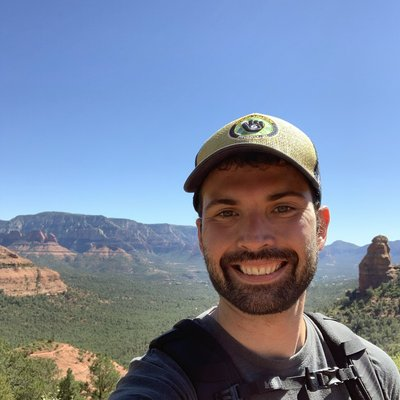
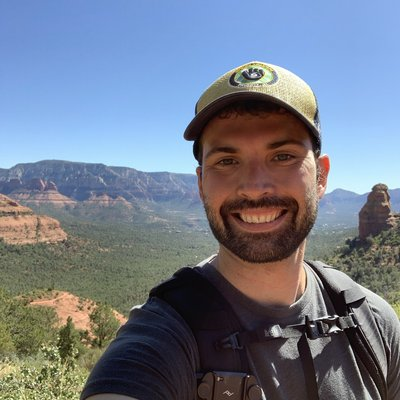
Add authors and B&N links to books page, improve profile photo crop
- Add author names and Barnes & Noble links for all recommended books
- Re-crop profile photo with face better centered

diff --git a/app/books/page.tsx b/app/books/page.tsx
@@ -1,4 +1,5 @@
 import type { Metadata } from 'next'
+import Link from 'next/link'
 
 export const metadata: Metadata = {
   title: 'Recommended Books',
@@ -10,28 +11,76 @@ const bookCategories = [
   {
     title: 'Leadership',
     books: [
-      'Extreme Ownership',
-      'The Obstacle is the Way',
-      'Stillness Is the Key',
-      'Ego is the Enemy',
-      'Multipliers',
-      'Turn the Ship Around',
+      {
+        title: 'Extreme Ownership',
+        author: 'Jocko Willink & Leif Babin',
+        url: 'https://www.barnesandnoble.com/w/extreme-ownership-jocko-willink/1121081209',
+      },
+      {
+        title: 'The Obstacle Is the Way',
+        author: 'Ryan Holiday',
+        url: 'https://www.barnesandnoble.com/w/the-obstacle-is-the-way-ryan-holiday/1118482432',
+      },
+      {
+        title: 'Stillness Is the Key',
+        author: 'Ryan Holiday',
+        url: 'https://www.barnesandnoble.com/w/stillness-is-the-key-ryan-holiday/1130068915',
+      },
+      {
+        title: 'Ego Is the Enemy',
+        author: 'Ryan Holiday',
+        url: 'https://www.barnesandnoble.com/w/ego-is-the-enemy-ryan-holiday/1122680805',
+      },
+      {
+        title: 'Multipliers',
+        author: 'Liz Wiseman',
+        url: 'https://www.barnesandnoble.com/w/multipliers-revised-and-updated-liz-wiseman/1124435198',
+      },
+      {
+        title: 'Turn the Ship Around!',
+        author: 'L. David Marquet',
+        url: 'https://www.barnesandnoble.com/w/turn-the-ship-around-l-david-marquet/1115459209',
+      },
     ],
   },
   {
     title: 'Software Engineering',
     books: [
-      'Code Complete',
-      'Release It!',
-      'Microservices Patterns: With examples in Java',
+      {
+        title: 'Code Complete',
+        author: 'Steve McConnell',
+        url: 'https://www.barnesandnoble.com/w/code-complete-steve-mcconnell/1100354307',
+      },
+      {
+        title: 'Release It!',
+        author: 'Michael T. Nygard',
+        url: 'https://www.barnesandnoble.com/w/release-it-michael-t-nygard/1111870490',
+      },
+      {
+        title: 'Microservices Patterns',
+        author: 'Chris Richardson',
+        url: 'https://www.barnesandnoble.com/w/microservices-patterns-chris-richardson/1127841408',
+      },
     ],
   },
   {
     title: 'Management',
     books: [
-      "The Manager's Path",
-      'The Making of a Manager',
-      'Engineering Management for the Rest of Us',
+      {
+        title: "The Manager's Path",
+        author: 'Camille Fournier',
+        url: 'https://www.barnesandnoble.com/w/the-managers-path-camille-fournier/1125298642',
+      },
+      {
+        title: 'The Making of a Manager',
+        author: 'Julie Zhuo',
+        url: 'https://www.barnesandnoble.com/w/the-making-of-a-manager-julie-zhuo/1128003975',
+      },
+      {
+        title: 'Engineering Management for the Rest of Us',
+        author: 'Sarah Drasner',
+        url: 'https://www.barnesandnoble.com/w/engineering-management-for-the-rest-of-us-sarah-drasner/1142398485',
+      },
     ],
   },
 ]
@@ -55,13 +104,23 @@ export default function BooksPage() {
               style={{ '--index': i } as React.CSSProperties}
             >
               <h2 className="text-xl font-semibold mb-4">{category.title}</h2>
-              <ul className="space-y-2">
+              <ul className="space-y-3">
                 {category.books.map((book) => (
                   <li
-                    key={book}
-                    className="text-foreground/90 leading-relaxed pl-4 border-l-2 border-border"
+                    key={book.title}
+                    className="pl-4 border-l-2 border-border"
                   >
-                    {book}
+                    <Link
+                      href={book.url}
+                      target="_blank"
+                      rel="noopener noreferrer"
+                      className="text-primary underline underline-offset-2 decoration-primary/40 hover:decoration-primary transition-colors"
+                    >
+                      {book.title}
+                    </Link>
+                    <span className="text-muted-foreground text-sm ml-2">
+                      by {book.author}
+                    </span>
                   </li>
                 ))}
               </ul>
